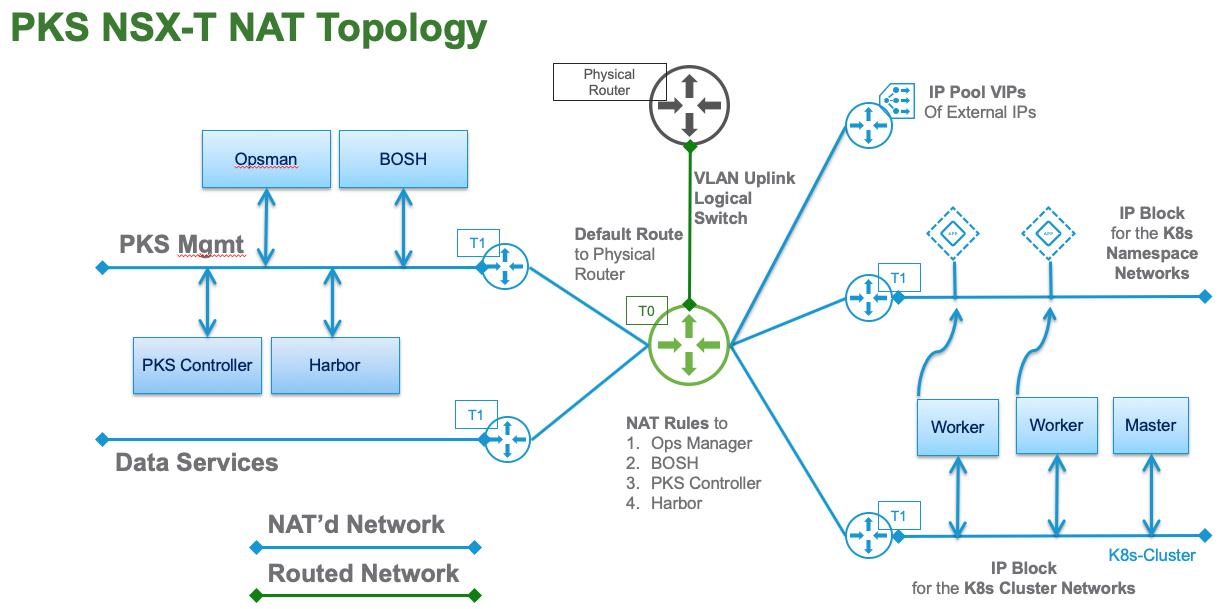
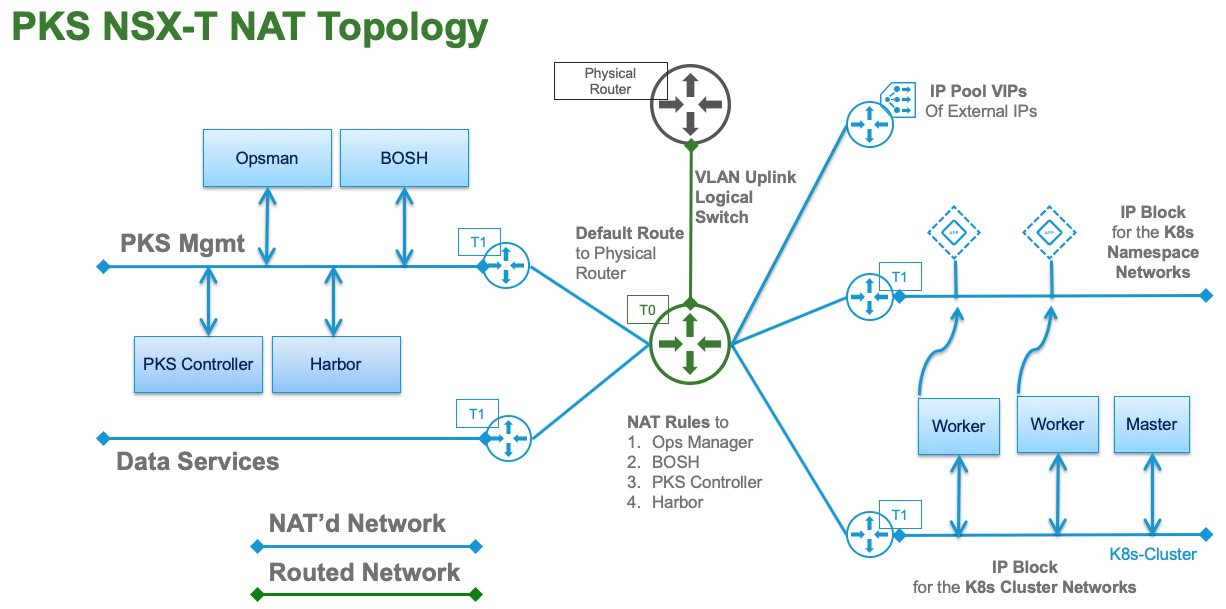
upload routed topology

diff --git a/pks/routed/README.md b/pks/routed/README.md
@@ -1,0 +1,44 @@
+# PKS Routed Topology
+
+## Overview
+
+This topology uses corporately routeable networks for all Management and Kubernetes cluster(s) logical networking. Access the PKS management components by the corporate IP Address on the routed "PKS MGMT" network. Kubernetes clusters are accessed through the NSX Loadbalancer that is automatically instantiated at the time of cluster creation. 
+
+In this topology all Kubernetes Master(s) and Worker(s) nodes will be accessible by their corporate IP Address from the routeable **IP Block** for the **K8s Cluster Node Networks**. This configuration is done by removing the checkmark in the **NAT mode** box in the **Networking** tab of the **PKS tile** in Opsman.
+
+**Note:** This IP Block **MUST** be owned by NSX and routeable throughout the physical network.
+```
+NODE_IP_BLOCK = "ip-block-pks-node-routeable"
+```
+
+<img src="../images/routed-diagram.png">
+
+### It expects this:
+* NSX Manager
+* NSX Controllers
+* NSX Edge Nodes
+* NSX Edge Cluster
+* vSphere Clusters Prepped
+
+<img src="../images/nsx-components.png">
+
+### Created by Terraform:
+* 1 T0 Router
+    * T0 Default Route
+* 2 T1 Routers
+    * 1 T1 PKS MGMT
+    * 1 T1 PKS Data Services
+* 2 Overlay Logical Switches
+    * 1 T1 PKS MGMT
+    * 1 T1 PKS Data Services
+* 1 VLAN Logical Switch (Uplink for T0 Router)
+* 2 IP Blocks
+    * 1 IP Block for PKS Nodes
+    * 1 IP Block for PKS Pods
+* 1 IP Pool for VIPs 
+
+### Created Manually
+* T0 Uplink Ports
+* HA VIP
+* Static Route on the Physical Router for the IP Pool for VIPs
+* Static Route on the Physical Router for the IP Block for Nodes

diff --git a/pks/nat/README.md b/pks/nat/README.md
@@ -4,7 +4,7 @@
 
 This topology uses NAT for all Management and Kubernetes cluster(s) logical networking. Access to the PKS management components utilize DNAT rules created on the T0 to access the "PKS MGMT" network. Kubernetes clusters are accessed through the NSX Loadbalancer that is automatically instantiated at the time of cluster creation.
 
-In this topology the Kubernetes Node networks are Private Networks that are allocated from the **IP Block** for the **K8s Cluster Networks**. This configuration is done by putting a checkmark in the **NAT mode** box in the PKS tile in Opsman.
+In this topology the Kubernetes Node networks are Private Networks that are allocated from the private **IP Block** for the **K8s Cluster Node Networks**. This configuration is done by putting a checkmark in the **NAT mode** box in the **Networking** tab of the **PKS tile** in Opsman.
 
 <img src="../images/nat-diagram.png">
 
